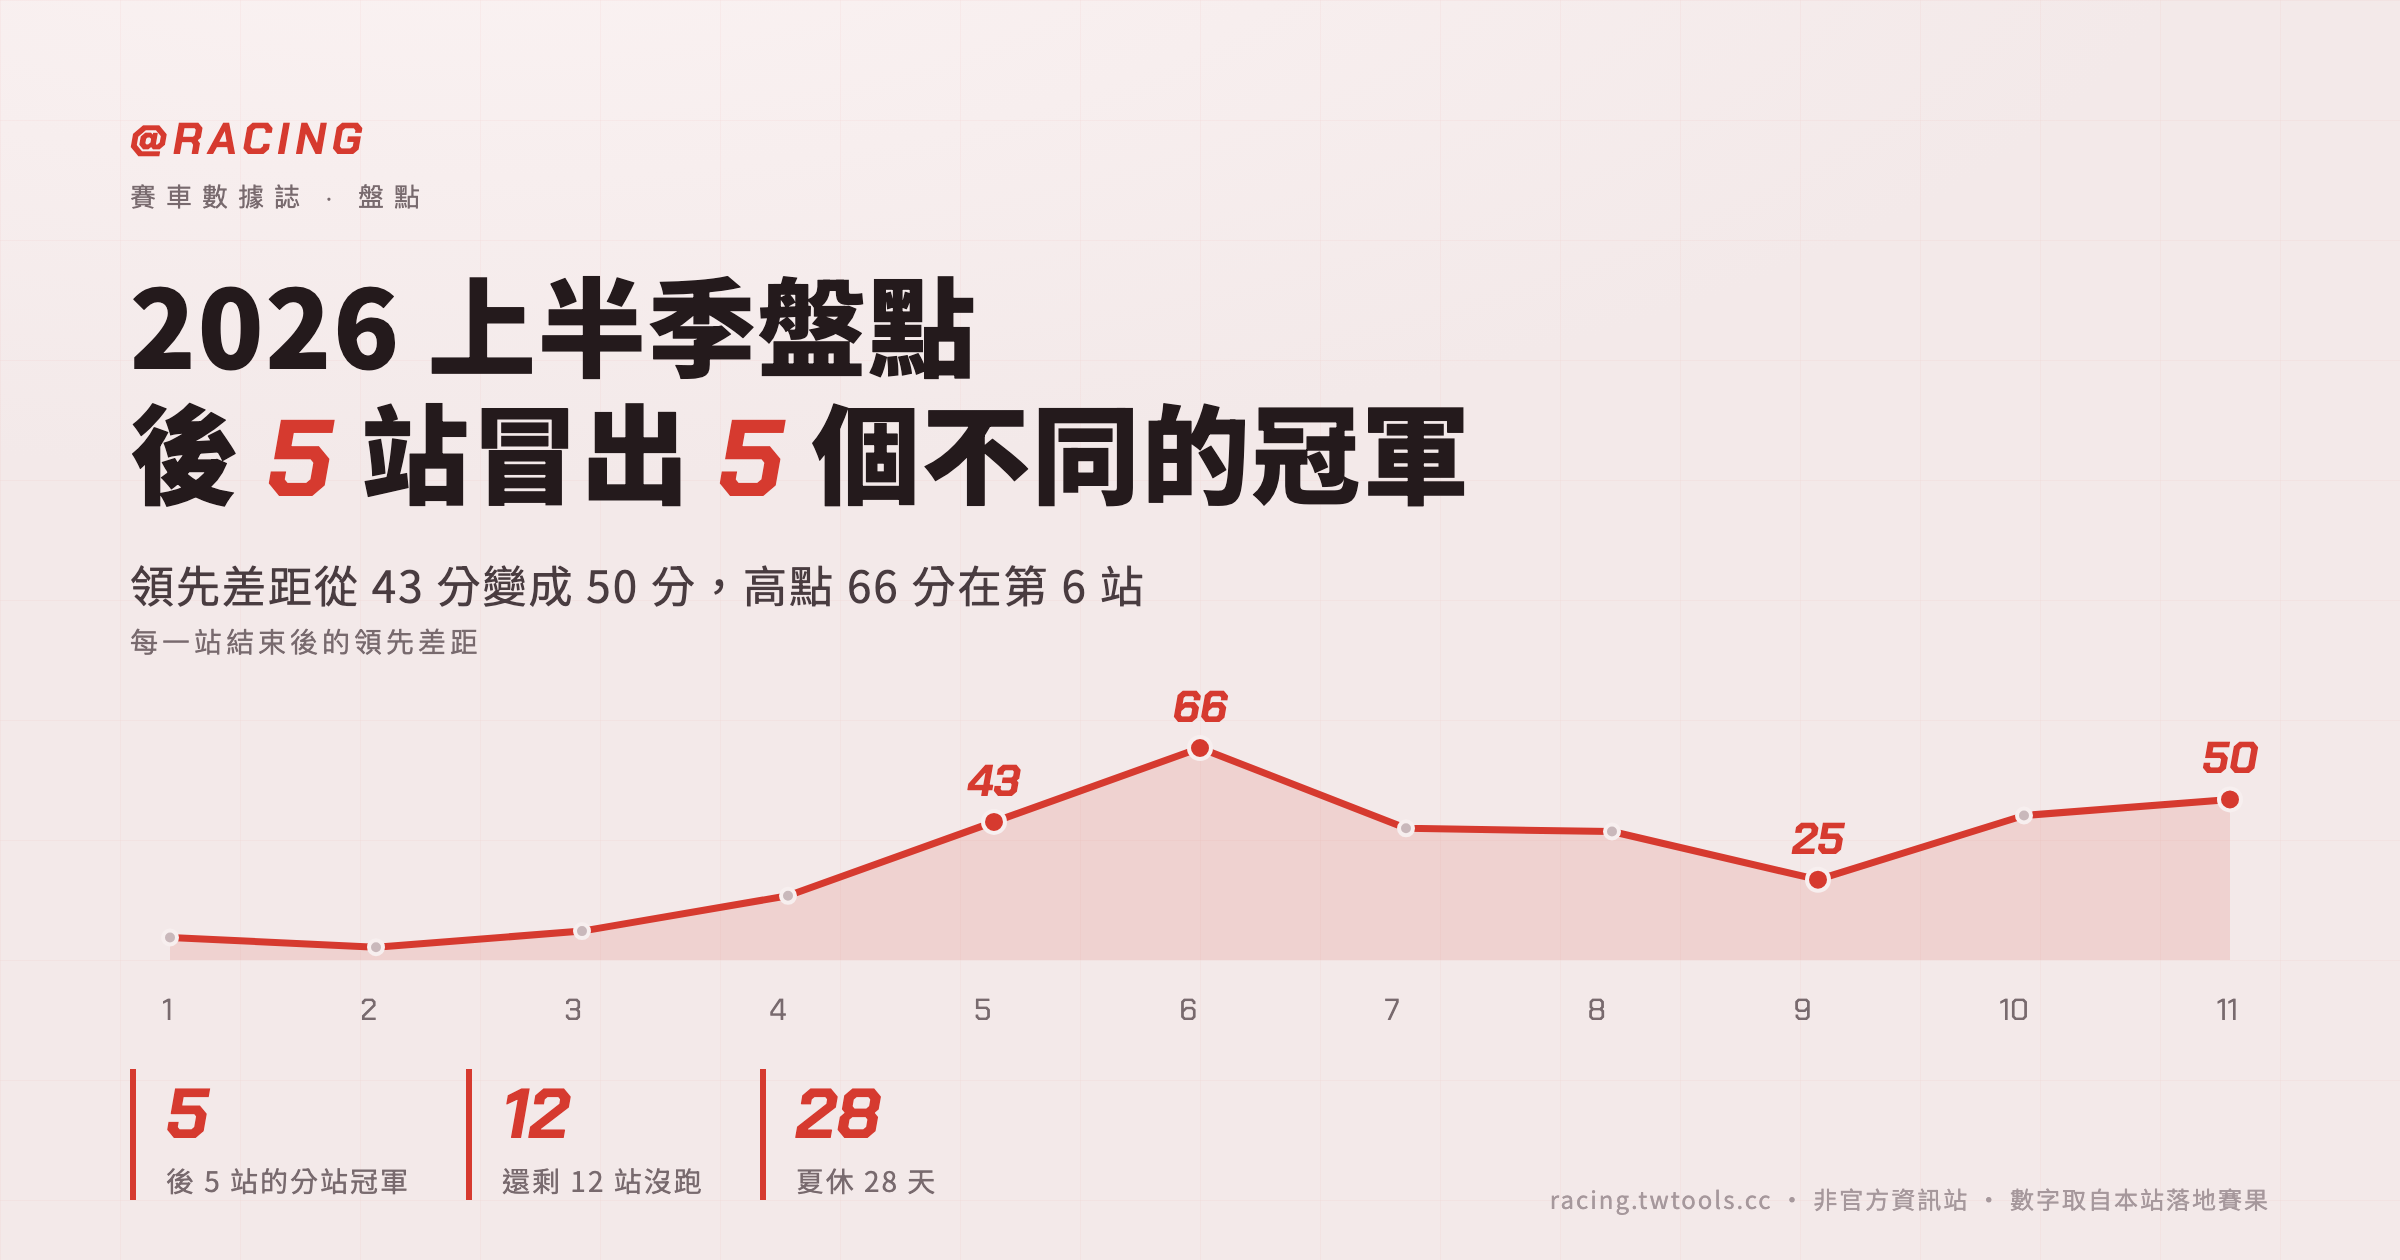
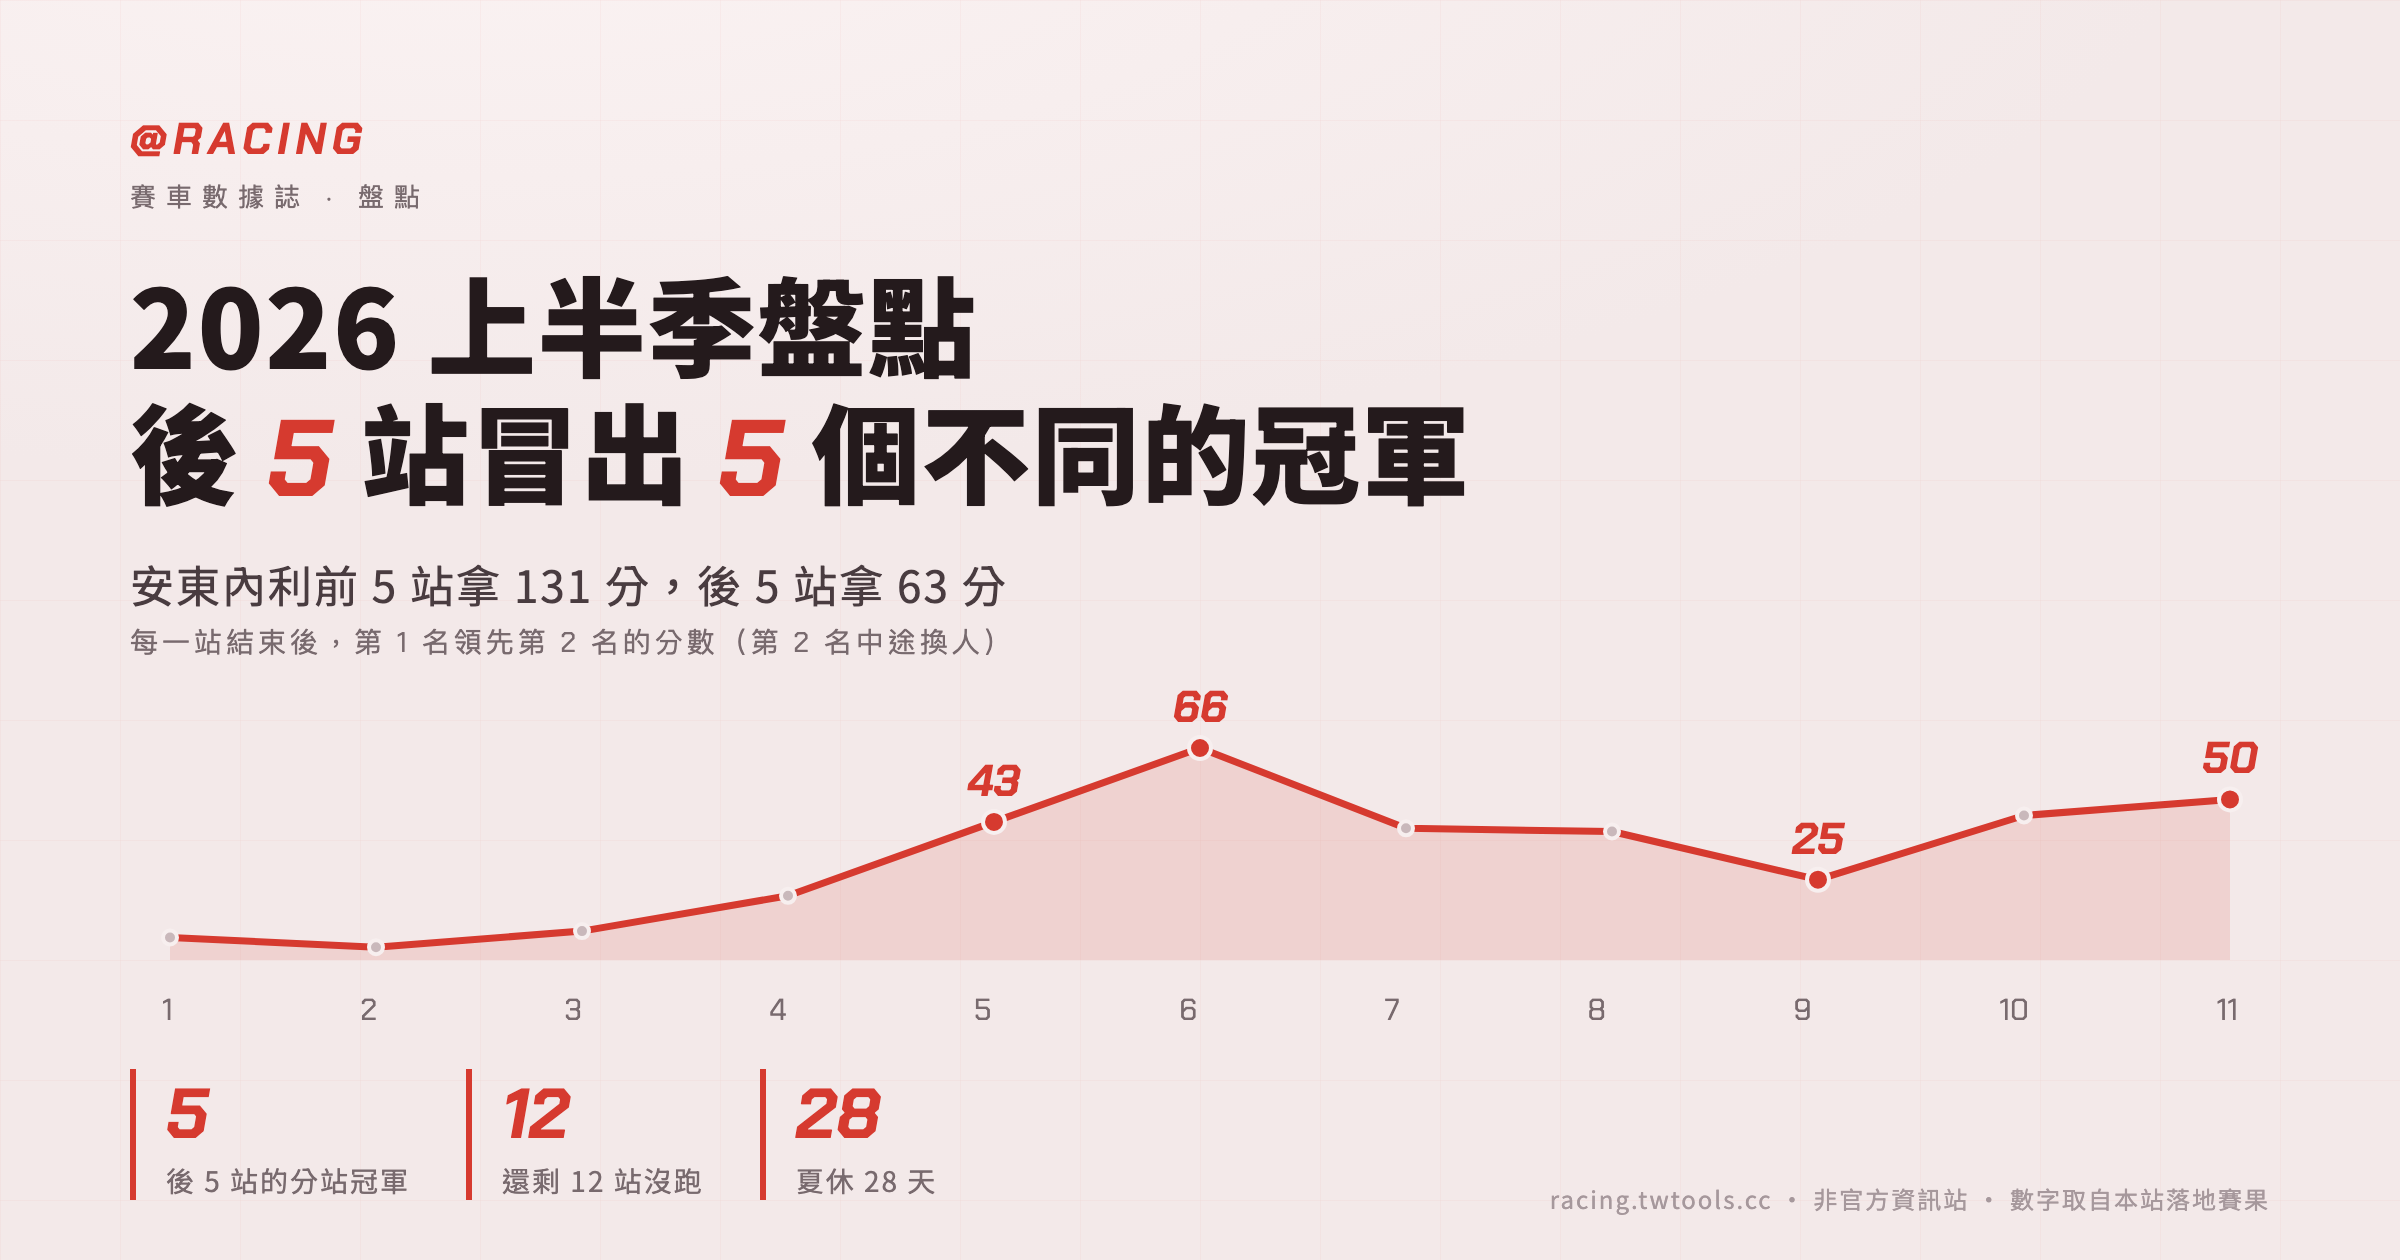
fix(articles): 上半季盤點——查核桌 R1 修正（區間錯接／因果升級 BLOCKER）
- 拆掉跨口徑因果：窗口比較（R1–R5 vs R7–R11）與差距演變（R5→R11 含 R6、
  第 2 名中途換人）不再互為因果；新增「固定同一追趕者」揭露節
  （漢米爾頓 59→50 縮 9／羅素 43→59 擴 16，方向相反）
- title/subtitle/lede/封面同族說法整組重構；「22 台車跑完」改寫（DNS 7＋Retired 44）
- 修上游：facts pack thesis 重寫＋must_not_claim 新增 3 條禁區；新數字先進 pack 帶推導
- 指涉鏈三類掃描零孤兒；4,489 字；全 gate 綠

Changed region(s): [[0.0625, 0.4333, 0.4688, 0.5262]]

diff --git a/design/covers/cover-half-season.html b/design/covers/cover-half-season.html
@@ -31,9 +31,9 @@ h1 { font-size: 108px; margin-top: 44px; }
   <div class="brand">@RACING</div>
   <div class="tag">賽車數據誌 · 盤點</div>
   <h1>2026 上半季盤點<br>後 <span class="y">5</span> 站冒出 <span class="y">5</span> 個不同的冠軍</h1>
-  <div class="sub">領先差距從 43 分變成 50 分，高點 66 分在第 6 站</div>
+  <div class="sub">安東內利前 5 站拿 131 分，後 5 站拿 63 分</div>
   <div class="viz">
-    <div class="lbl">每一站結束後的領先差距</div>
+    <div class="lbl">每一站結束後，第 1 名領先第 2 名的分數（第 2 名中途換人）</div>
     <svg class="chart" viewBox="0 0 2140 320" preserveAspectRatio="none">
       <polygon points="40,292 40.0,269.5 246.0,279.2 452.0,263.1 658.0,227.8 864.0,153.9 1070.0,80.0 1276.0,160.3 1482.0,163.5 1688.0,211.7 1894.0,147.5 2100.0,131.4 2100.0,292" fill="rgba(214,58,47,.13)"/>
       <polyline points="40.0,269.5 246.0,279.2 452.0,263.1 658.0,227.8 864.0,153.9 1070.0,80.0 1276.0,160.3 1482.0,163.5 1688.0,211.7 1894.0,147.5 2100.0,131.4" fill="none" stroke="#d63a2f" stroke-width="7"
